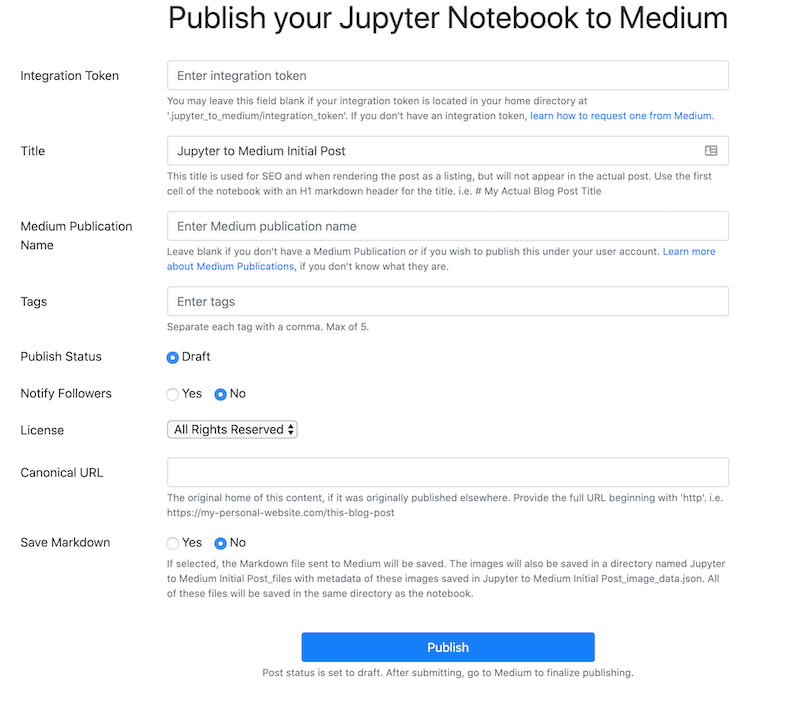
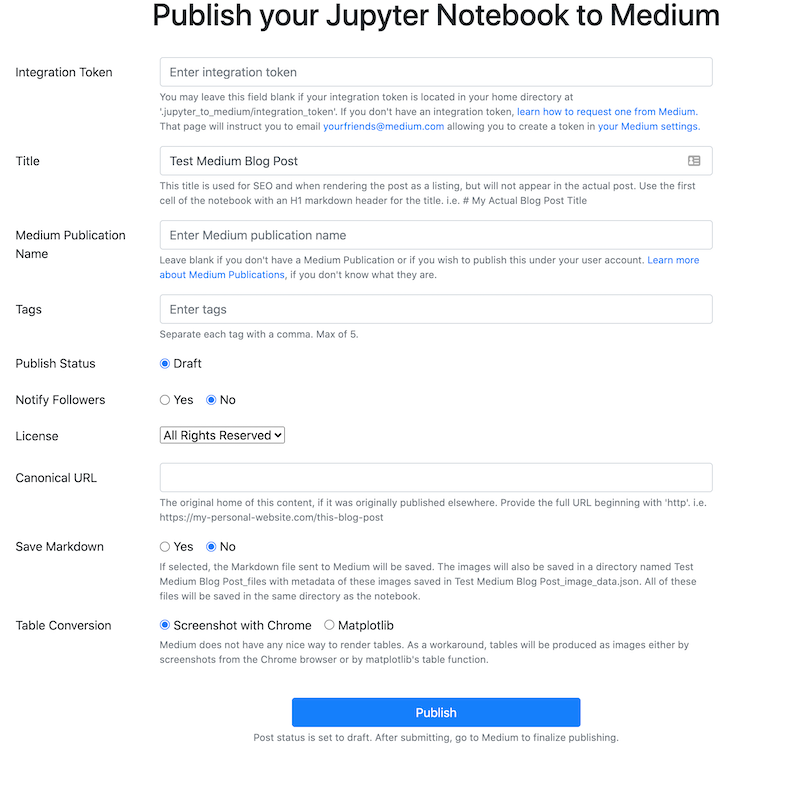
update docs

diff --git a/docs/index.md b/docs/index.md
@@ -5,12 +5,20 @@
 
 Publish Jupyter Notebooks as Medium blog posts directly from your notebook with the help of jupyter_to_medium.
 
+{% macro image(name) %}
+    <div style="text-align: center;">
+        <img src="images/{{ name }}.png">
+    </div>
+{% endmacro %}
+
+<div>{{ image('social_share_small') }}</div>
+
 ## Target User
 
-Do you ....
+Do you...
 
 * Publish blog posts on Medium?
-* Use Jupyter Notebooks to write the bulk of your post?
+* Use Jupyter Notebooks to write your posts?
 * Dislike the time and effort it takes to transfer your posts from Jupyter to Medium?
 
 If so, jupyter_to_medium will automate the process of taking your Jupyter Notebook as is and publishing it as a Medium post in almost no time at all, saving huge amounts of time.
@@ -34,7 +42,7 @@ Before using this package, you must request an integration token from Medium. [R
 
 Once you have your integration token, create the following folder and file in your home directory.
 
-```
+```python
 .jupyter_to_medium/integration_token
 ```
 
@@ -52,7 +60,7 @@ There are three ways to publish notebooks:
 
 After installation, open the notebook you wish to publish and select the option `File -> Deploy as -> Medium Post`
 
-![png](images/menu_option.png)
+<div>{{ image('menu_option') }}</div>
 
 !!! note
     The extension should be automatically activated in your notebook, but if the above command is not found, run the following from your command line.
@@ -61,23 +69,24 @@ After installation, open the notebook you wish to publish and select the option 
 
 A new browser tab will open with a short form that needs to be completed.
 
-![png](images/form.png)
+<div>{{ image('form') }}</div>
 
-After clicking publish, the notebook and all images will be uploaded to Medium. Any HTML tables (such as pandas DataFrames) will be converted to images (via chrome), as Medium has no ability to represent tables. This is a time consuming process, so be prepared to wait. Check your terminal for updates. If successful, you'll get the following response with a link to view the post.
 
-![png](images/success.png)
+After clicking publish, the notebook and all images will be uploaded to Medium. Any HTML tables (such as pandas DataFrames) will be converted to images (via chrome or matplotlib), as Medium has no ability to represent tables. This is a time consuming process, so be prepared to wait. Check your terminal for updates. If successful, you'll get the following response with a link to view the post.
+
+<div>{{ image('success') }}</div>
 
 Click the link to view the post.
 
-![png](images/post.png)
+<div>{{ image('post') }}</div>
 
 ### Finalize and publish on Medium
 
-As of now, your post will be published as a draft. Review and publish the post on Medium.
+Currently, your post will be published as a draft. Review and publish the post on Medium.
 
 ### Publishing to Medium from the Command Line
 
-Upon installation, you'll have access to the command line program `jupyter_to_medium` with the same options as the above function.
+Upon installation, you'll have access to the command line program `jupyter_to_medium` with the same options as the below function.
 
 ```bash
 jupyter_to_medium --pub-name="Dunder Data" --tags="python, data science" "My Awesome Blog Post.ipynb"
@@ -99,7 +108,9 @@ jtm.publish('My Awesome Jupyter Notebook.ipynb',
             license='all-rights-reserved',
             canonical_url=None,
             chrome_path=None,
-            download_markdown=False)
+            save_markdown=False,
+            table_conversion='chrome'
+            )
 ```
 
 If successful, a message will be printed with the URL to your post.  Additionally, JSON data will be returned as a dictionary containing the returned request from Medium.
@@ -108,9 +119,15 @@ If successful, a message will be printed with the URL to your post.  Additionall
 
 If your post is unsuccessful, a message with the error will be printed to the screen with information that might help you solve the issue.
 
+### Table conversion with Chrome or Matplotlib
+
+By default, tables will be converted via Chrome web browser by taking screenshots of them. If you don't have Chrome installed or cannot 
+get chrome to work, select 'matplotlib' for the table conversion.
+
 ## Dependencies
 
 * nbconvert
 * requests
 * pillow (if you have HTML tables)
 * Google Chrome / Brave browser
+* matplotlib (if Chrome browser does not work)

diff --git a/README.md b/README.md
@@ -5,6 +5,8 @@
 
 Publish Jupyter Notebooks as Medium blog posts directly from your notebook with the help of jupyter_to_medium.
 
+![](docs/images/social_share_small.png)
+
 ## Target User
 
 Do you ....
@@ -72,21 +74,21 @@ Click the link to view the post.
 
 ![png](docs/images/post.png)
 
-#### Finalize and publish on Medium
+### Finalize and publish on Medium
 
-As of now, your post will be published as a draft. Review and publish the post on Medium.
+Currently, your post will be published as a draft. Review and publish the post on Medium.
 
 ### Publishing to Medium from the Command Line
 
-Upon installation, you'll have access to the command line program `jupyter_to_medium` with the same options as the above function.
+Upon installation, you'll have access to the command line program `jupyter_to_medium` with the same options as the below function.
 
 ```bash
-jupyter_to_medium --pub-name="Dunder Data" "My Awesome Blog Post.ipynb"
+jupyter_to_medium --pub-name="Dunder Data" --tags="python, data science" "My Awesome Blog Post.ipynb"
 ```
 
 ### Publishing to Medium with a Python Script
 
-In a separate script/notebook import `juptyer_to_medium` as a module. Pass the `publish` function the location of the Jupyter Notebook you would like to publish as a Medium blog post
+In a separate script/notebook, import `juptyer_to_medium` as a module. Pass the `publish` function the location of the Jupyter Notebook you would like to publish as a Medium blog post.
 
 ```python
 import jupyter_to_medium as jtm
@@ -100,10 +102,21 @@ jtm.publish('My Awesome Jupyter Notebook.ipynb',
             license='all-rights-reserved',
             canonical_url=None,
             chrome_path=None,
-            download_markdown=False)
+            save_markdown=False,
+            table_conversion='chrome'
+            )
 ```
 
-If successful, JSON data will be returned as a dictionary with the URL.
+If successful, a message will be printed with the URL to your post.  Additionally, JSON data will be returned as a dictionary containing the returned request from Medium.
+
+## Troubleshooting
+
+If your post is unsuccessful, a message with the error will be printed to the screen with information that might help you solve the issue.
+
+### Table conversion with Chrome or Matplotlib
+
+By default, tables will be converted via Chrome web browser by taking screenshots of them. If you don't have Chrome installed or cannot 
+get chrome to work, select 'matplotlib' for the table conversion.
 
 ## Dependencies
 
@@ -111,3 +124,4 @@ If successful, JSON data will be returned as a dictionary with the URL.
 * requests
 * pillow (if you have HTML tables)
 * Google Chrome / Brave browser
+* matplotlib (if Chrome browser does not work)
